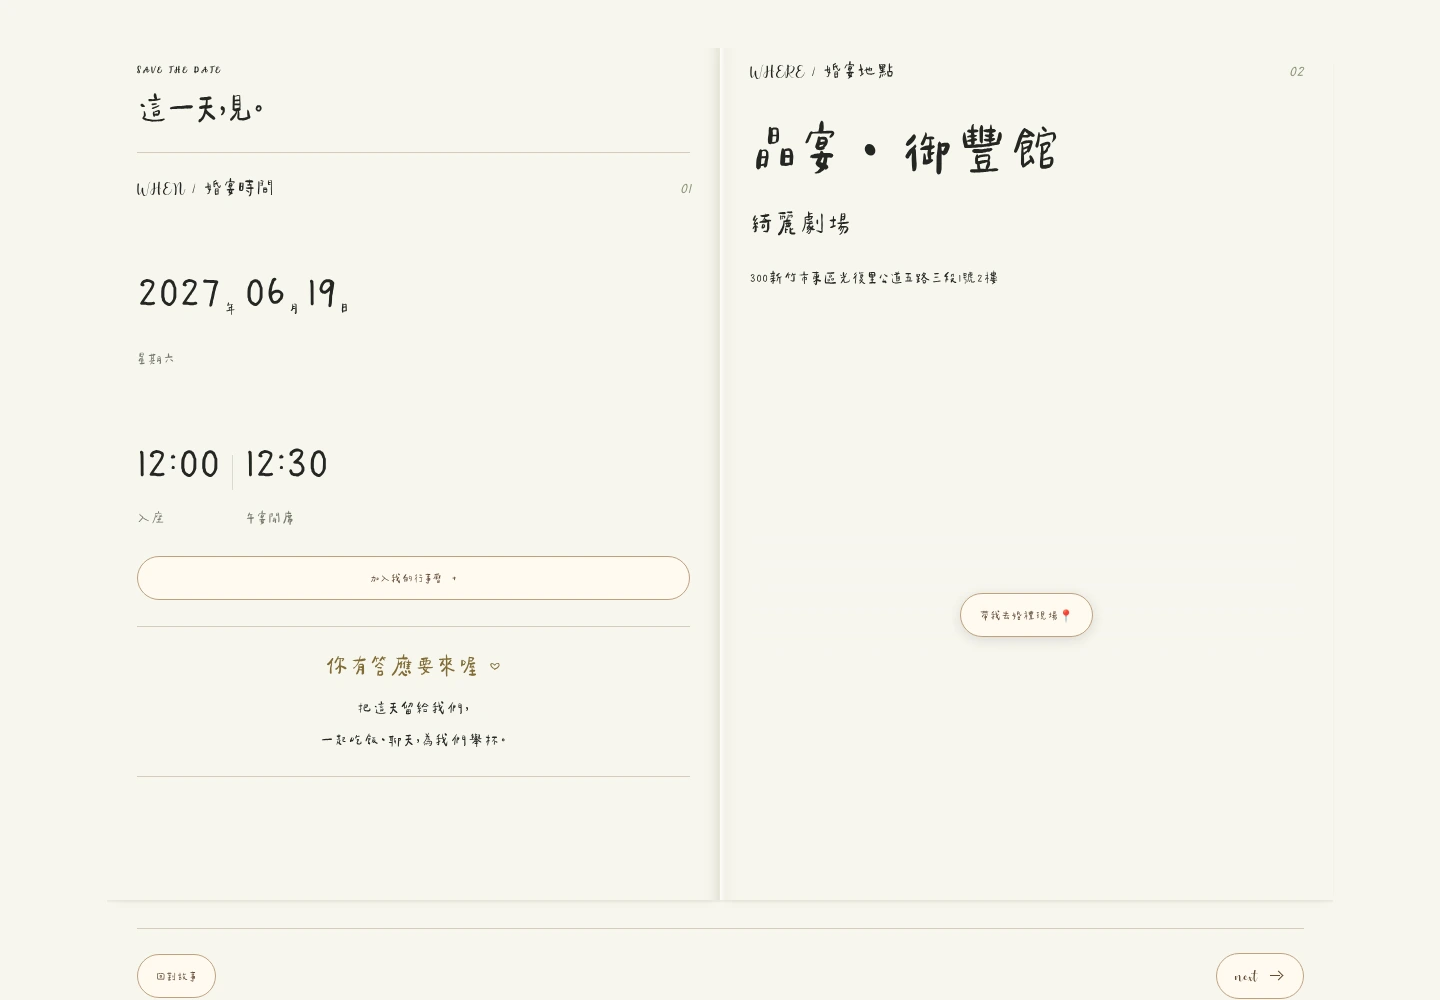
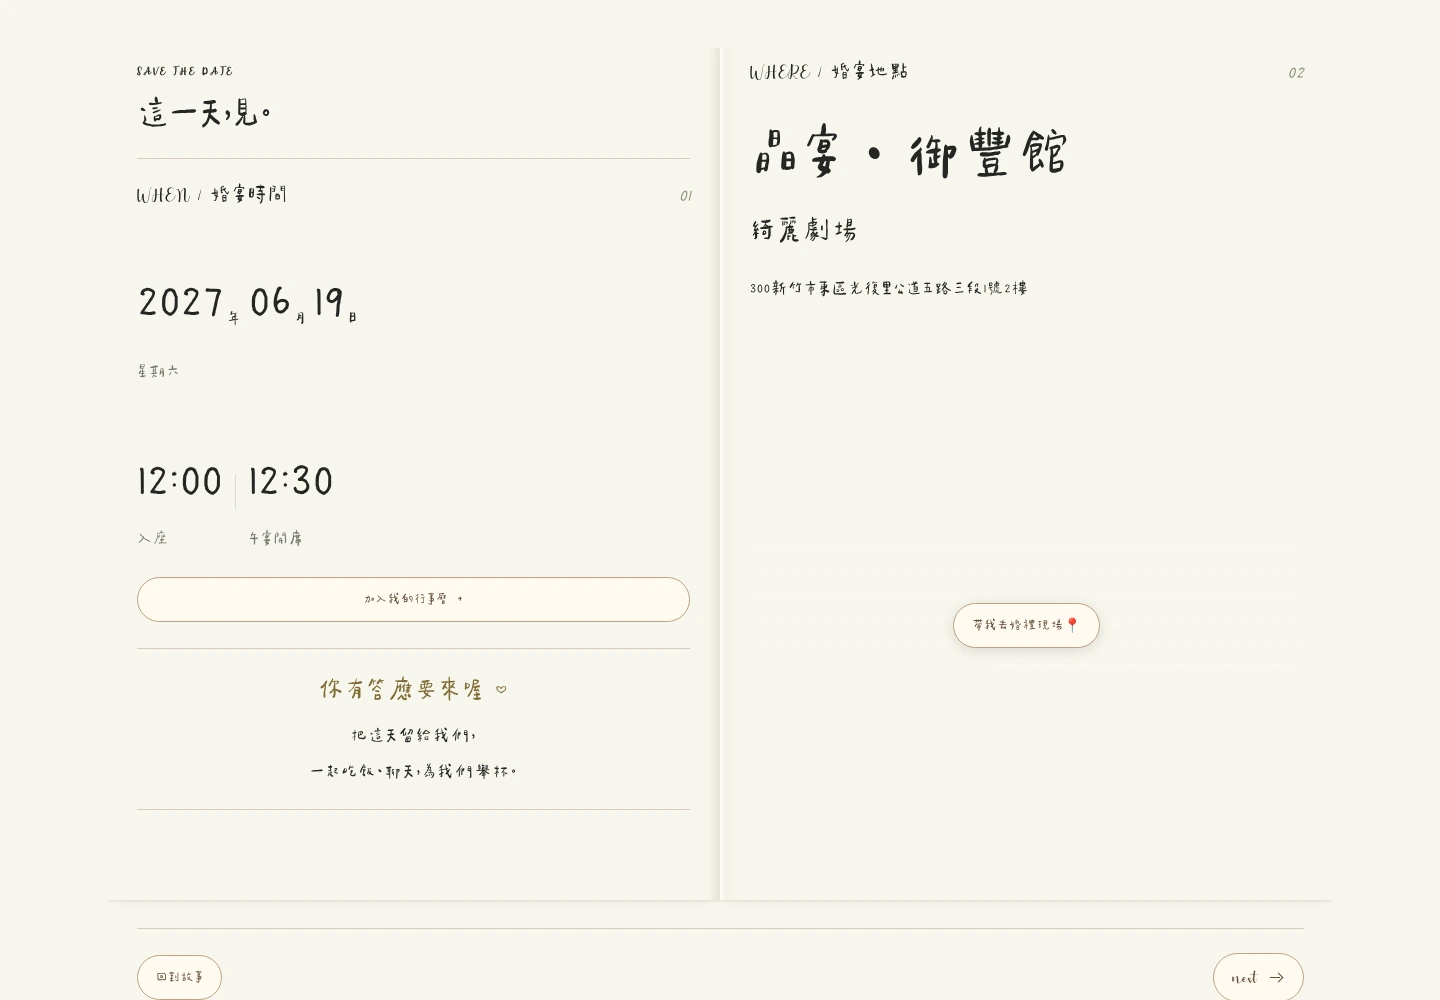
Compare Chen Yuluoyan, Star Panda Kids and Shaohua with Autery English

diff --git a/font-preview/chen-panda-shaohua.html b/font-preview/chen-panda-shaohua.html
@@ -1,0 +1,13 @@
+<!doctype html>
+<html lang="zh-Hant"><head><meta charset="utf-8"><meta name="viewport" content="width=device-width,initial-scale=1"><meta name="robots" content="noindex"><title>手寫字體提案｜鑫佑 & 宛瑩</title><style>
+:root{color-scheme:light;--paper:#f7f5ed;--ink:#353a31;--line:#ddd8c9;--gold:#9c7744}*{box-sizing:border-box}body{margin:0;background:var(--paper);color:var(--ink);font-family:system-ui,'Microsoft JhengHei',sans-serif;line-height:1.7}main{max-width:1550px;margin:auto;padding:56px 28px}header{max-width:760px;margin:0 auto 32px;text-align:center}.eyebrow{font-size:12px;letter-spacing:3px;color:var(--gold)}h1{font-size:clamp(28px,4vw,44px);font-weight:500;letter-spacing:3px;margin:16px 0}header p{color:#707365}a{color:inherit}button,a:focus-visible{outline-offset:5px}fieldset{border:0;padding:0;margin:0;display:flex;gap:8px;justify-content:center;flex-wrap:wrap}legend{float:left;margin-right:8px;font-size:13px;line-height:42px}.controls{display:flex;flex-wrap:wrap;gap:12px 28px;justify-content:center;margin:30px 0 38px}button{border:1px solid #c8bdab;border-radius:24px;padding:10px 18px;background:transparent;color:var(--ink);font:inherit;font-size:14px;cursor:pointer}button[aria-pressed=true]{background:#eae3bd;border-color:#b7a965}button:hover{background:#ede9da}.grid{display:grid;grid-template-columns:repeat(3,minmax(0,1fr));gap:24px}article{min-width:0;border-top:1px solid var(--line);padding-top:22px}h2{font-size:22px;font-weight:500;margin:6px 0}article p{font-size:14px;min-height:74px;color:#727366;margin:10px 0 20px}.number{font-size:12px;letter-spacing:3px;color:var(--gold)}.preview{display:block;background:#eeece3;border-radius:4px;overflow:hidden;box-shadow:0 12px 32px #4b42230b}.preview img{width:100%;display:block;height:auto}.caption{font-size:12px;color:#777b70;text-align:center;margin:10px}footer{text-align:center;margin-top:46px;font-size:14px}footer p{color:#73776b;font-size:12px}.status{height:0;overflow:hidden}@media(max-width:800px){main{padding:32px 20px}.grid{grid-template-columns:1fr;gap:38px}article{max-width:480px;width:100%;margin:auto}article p{min-height:0}.controls{gap:18px}h1{letter-spacing:1px}}
+</style></head><body><main><header><div class="eyebrow">WALKER & BONNIE · TYPE STUDY · 04</div><h1>三款中文字體，一起比較。</h1><p>英文都用 Autery，中文選你喜歡的手寫風格。<br>點照片可看原尺寸；預覽採目前放大 2px 的字級；正式網站不變。</p></header>
+<div class="controls"><fieldset id="devices"><legend>版面</legend><button data-device="mobile" aria-pressed="true">手機</button><button data-device="desktop" aria-pressed="false">桌機</button></fieldset><fieldset id="sections"><legend>頁面</legend><button data-section="invitation" aria-pressed="true">封面</button><button data-section="story" aria-pressed="false">人物介紹</button><button data-section="details" aria-pressed="false">婚宴資訊</button></fieldset></div>
+<div class="grid">
+<article data-font="chen"><span class="number">01 / GENTLE</span><h2>辰宇落雁體 × Autery</h2><p>細緻、舒展的中文手寫，搭配浪漫英文。<br>中文使用辰宇落雁體 2.0；英文統一 Autery。</p><a class="preview" href="images/chen-mobile-invitation.webp" target="_blank" rel="noopener"><img src="images/chen-mobile-invitation.webp" alt="辰宇落雁體 × Autery 手機封面字體預覽"></a><div class="caption">點圖查看原尺寸</div></article>
+<article data-font="panda"><span class="number">02 / PLAYFUL</span><h2>星光小熊貓幼兒體 × Autery</h2><p>圓潤、俏皮的中文筆觸，多一點可愛感。<br>中文使用 StarPandaKids 2.1；英文統一 Autery。</p><a class="preview" href="images/panda-mobile-invitation.webp" target="_blank" rel="noopener"><img src="images/panda-mobile-invitation.webp" alt="星光小熊貓幼兒體 × Autery 手機封面字體預覽"></a><div class="caption">點圖查看原尺寸</div></article>
+<article data-font="pingfang"><span class="number">03 / SHAO HUA</span><h2>平方韶華體 × Autery</h2><p>中文與數字使用你提供的平方韶華體。<br>缺少「瑩、禮、綺、麗、劇、場」等繁體字，以霞鶩文楷補字。</p><a class="preview" href="images/pingfang-mobile-invitation.webp" target="_blank" rel="noopener"><img src="images/pingfang-mobile-invitation.webp" alt="平方韶華體 手機封面字體預覽"></a><div class="caption">點圖查看原尺寸</div></article></div><p class="status" role="status" id="status"></p><footer><a href="../">回到目前的喜帖 →</a><p>這裡提供實際排版截圖。三版中文與數字分別用各款字體，英文統一 Autery。Autery 不含數字，日期與時間使用各版中文字體。</p></footer></main><script>
+let device='mobile',section='invitation';const names={mobile:'手機',desktop:'桌機',invitation:'封面',story:'人物介紹',details:'婚宴資訊'};
+function update(){document.querySelectorAll('[data-device]').forEach(b=>b.setAttribute('aria-pressed',b.dataset.device===device));document.querySelectorAll('[data-section]').forEach(b=>b.setAttribute('aria-pressed',b.dataset.section===section));document.querySelectorAll('article').forEach(a=>{const url=`images/${a.dataset.font}-${device}-${section}.webp`;a.querySelector('a.preview').href=url;a.querySelector('img').src=url;a.querySelector('img').alt=`${a.querySelector('h2').textContent} ${names[device]}${names[section]}字體預覽`});document.getElementById('status').textContent=`目前顯示${names[device]}${names[section]}`}
+document.querySelectorAll('[data-device]').forEach(b=>b.addEventListener('click',()=>{device=b.dataset.device;update()}));document.querySelectorAll('[data-section]').forEach(b=>b.addEventListener('click',()=>{section=b.dataset.section;update()}));
+</script></body></html>

diff --git a/font-preview/README.md b/font-preview/README.md
@@ -20,3 +20,7 @@ The original font binaries remain outside this repository; only rendered preview
 ## Round three
 
 `maoken-naikai-autery.html` compares user-supplied MaokenAssortedSans-TC.otf with NaikaiFont-Regular.ttf (TW), both paired with Autery English. The Naikai archive exceeds the transfer limit; its Regular face was retrieved from max32002/naikaifont at commit 7baa43a6adad4a82eab6fd27c9612b316f69d7c9, which may differ from the uploaded archive revision. These screenshots include the production +2px typography layer. Font binaries are not redistributed; only previews are added.
+
+## Round four
+
+`chen-panda-shaohua.html` compares Chen Yuluoyan 2.0, Star Panda Kids 2.1, and the supplied 平方韶華體.ttf. All use Autery for English letters and the current +2px size layer. Shaohua lacks some traditional characters, including 瑩禮綺麗劇場; the existing LXGW WenKai TC fills missing glyphs. Chinese and numeral glyphs otherwise use the selected Chinese face. Font binaries are not published. Chen/Panda captures were refreshed with current sizing.
